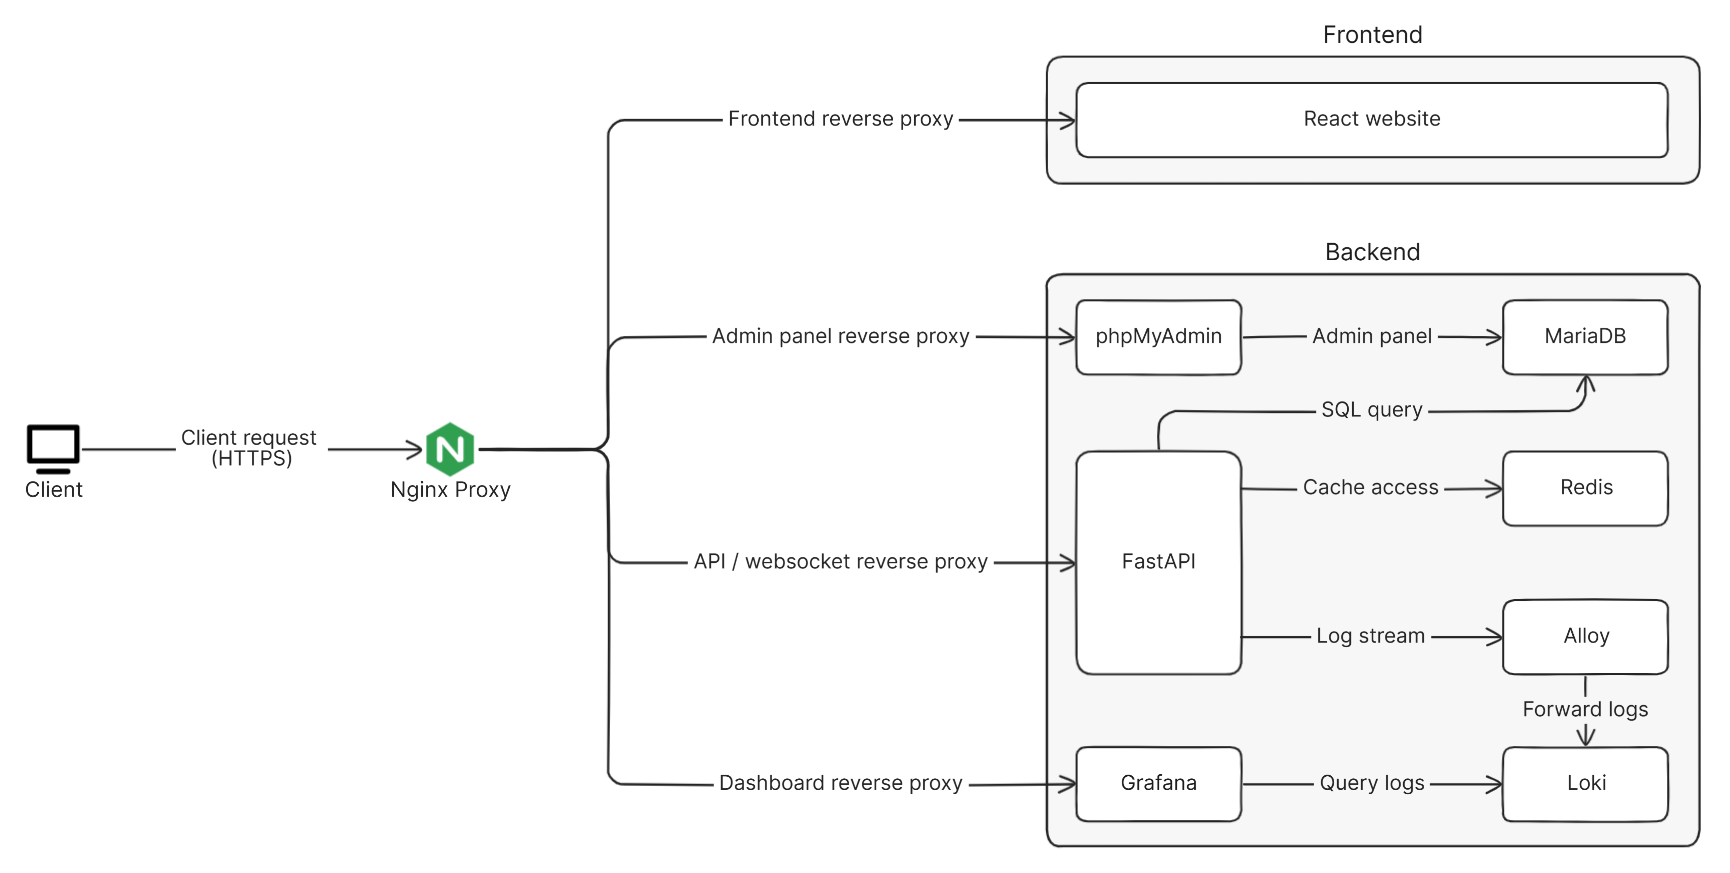
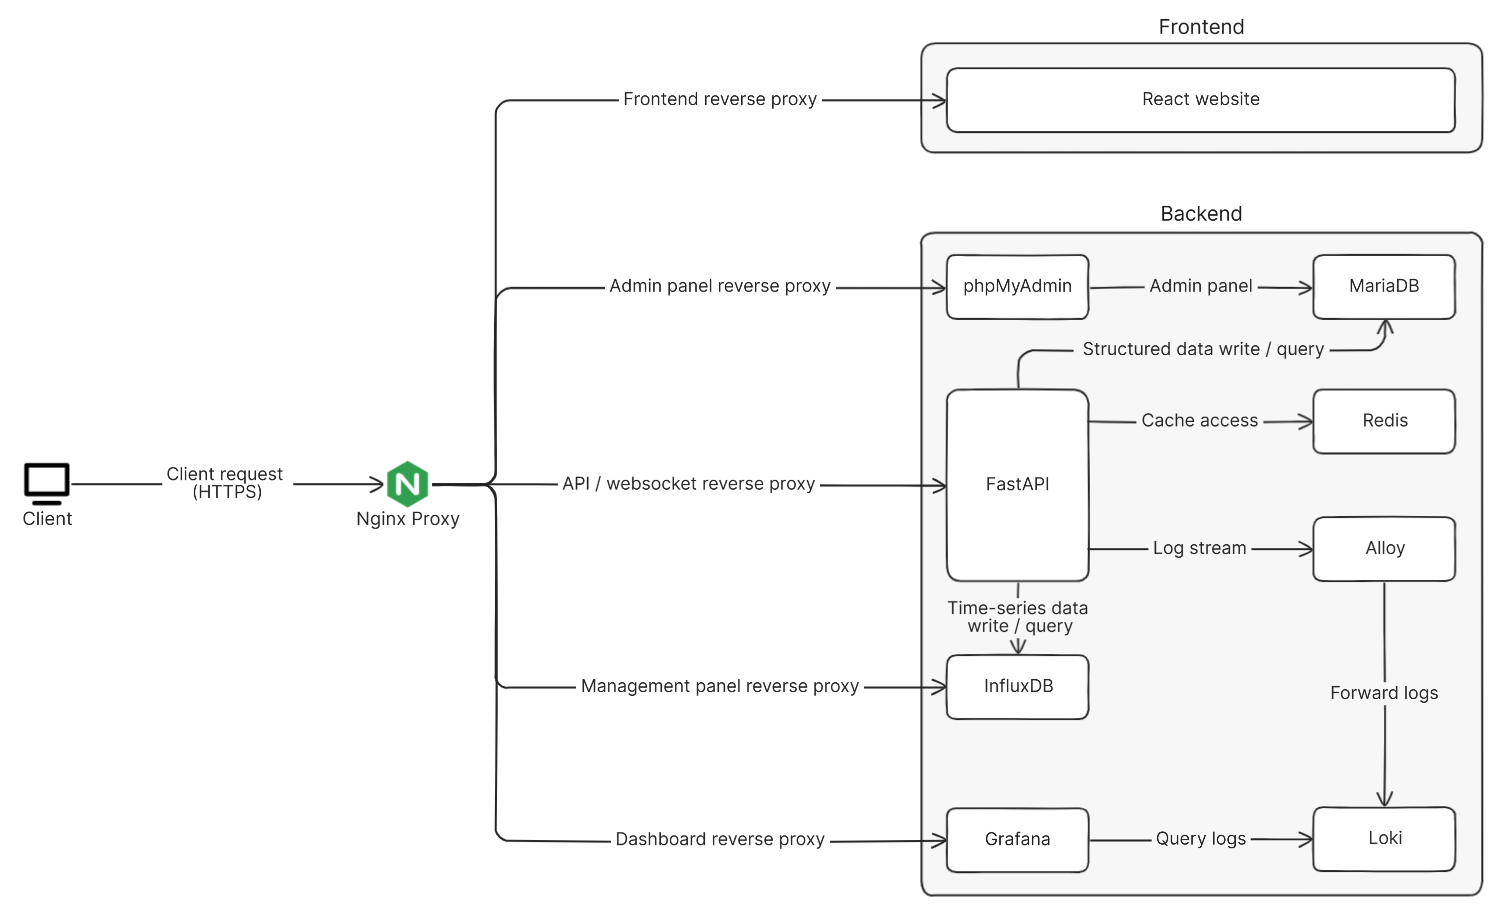
docs(readme): update database management and time-series DB section
- Added phpMyAdmin as MariaDB management tool
- Documented InfluxDB as time-series database

Changed region(s): [[0.0, 0.0, 1.0, 0.9897], [0.3438, 0.433, 0.375, 0.4639]]

diff --git a/README.md b/README.md
@@ -8,6 +8,8 @@
 - ⚛ **Frontend**: Built with React, offering a fast and modern user interface.
 - 🚀 **Backend**: Powered by FastAPI, providing a robust and flexible API layer.
 - 🛢 **Database**: Uses MariaDB for reliable and high-performance data storage.
+- 🗄 **Database Management**: phpMyAdmin for MariaDB database management.
+- 📈 **Time Series Database**: InfluxDB provides efficient storage and retrieval of time-series data.
 - 🔀 **Reverse Proxy**: Nginx serves as a reverse proxy, efficiently routing traffic to the appropriate services.
 - 📊 **Log Management**: Grafana provides log visualization and monitoring dashboards.
 - 🐳 **Dockerized**: All services are containerized with Docker Compose for easy deployment.
